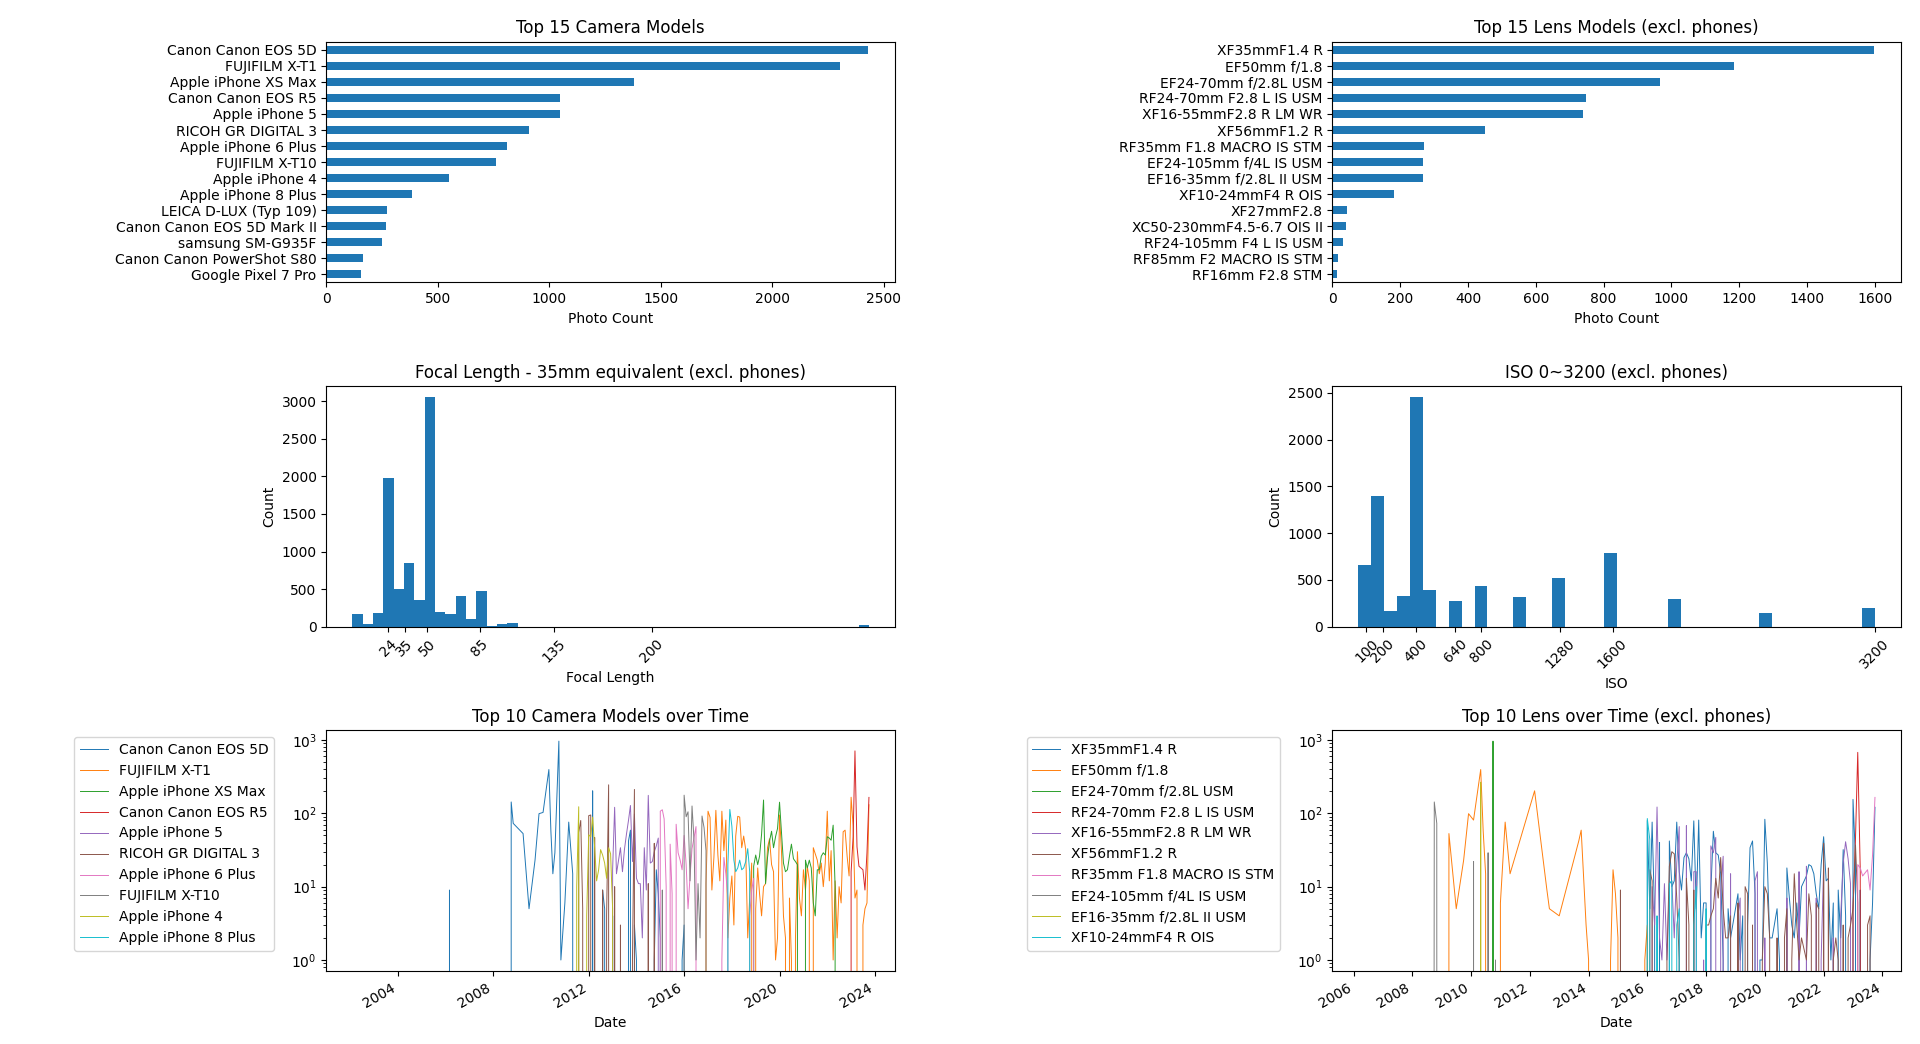
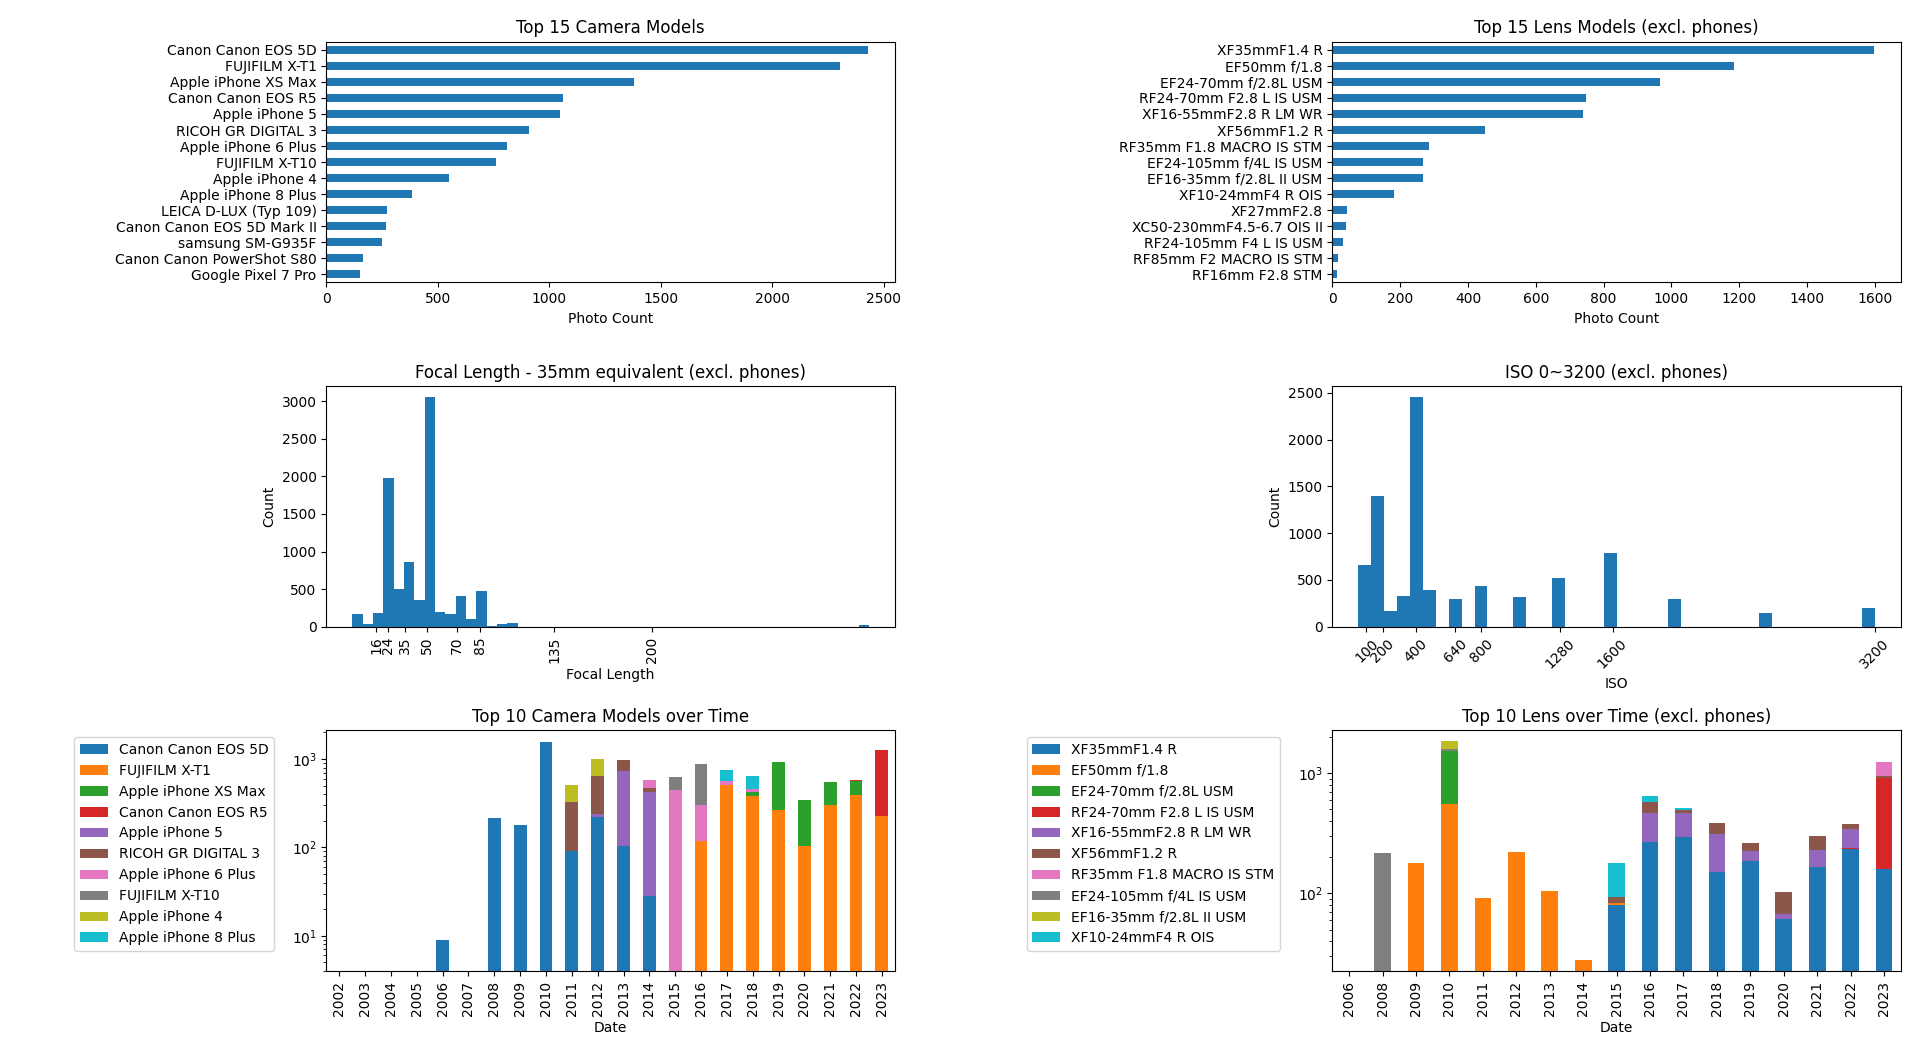
Use stacked bar to show the distribution of camera/lens usage over time

diff --git a/photo-histogram.py b/photo-histogram.py
@@ -146,9 +146,10 @@ def plot(df):
   # 5. Trend of counting over time by camera_model
   df.set_index('date_original', inplace=True)
   top_10_cameras = df['camera_with_maker'].value_counts().head(10).index
-  monthly_counts = df.groupby([pd.Grouper(freq='M'), 'camera_with_maker']).size().unstack(fill_value=0)
-  monthly_counts = monthly_counts[top_10_cameras]
-  monthly_counts.plot.line(ax=axs[2, 0], linewidth=0.7)
+  yearly_counts = df.groupby([pd.Grouper(freq='Y'), 'camera_with_maker']).size().unstack(fill_value=0)
+  yearly_counts = yearly_counts[top_10_cameras]
+  yearly_counts.plot.bar(ax=axs[2, 0], stacked=True)
+  axs[2, 0].set_xticklabels([x.year for x in yearly_counts.index])
   axs[2, 0].set_title('Top 10 Camera Models over Time')
   axs[2, 0].set_xlabel('Date')
   axs[2, 0].set_ylabel('')  # Save screen estate.
@@ -158,9 +159,10 @@ def plot(df):
   # 6. Trend of counting over time by lens_model (non-phone)
   non_phone_df.set_index('date_original', inplace=True)
   top_10_lens = non_phone_df['lens_model'].value_counts().head(10).index
-  monthly_counts = non_phone_df.groupby([pd.Grouper(freq='M'), 'lens_model']).size().unstack(fill_value=0)
-  monthly_counts = monthly_counts[top_10_lens]
-  monthly_counts.plot.line(ax=axs[2, 1], linewidth=0.7)
+  yearly_counts = non_phone_df.groupby([pd.Grouper(freq='Y'), 'lens_model']).size().unstack(fill_value=0)
+  yearly_counts = yearly_counts[top_10_lens]
+  yearly_counts.plot.bar(ax=axs[2, 1], stacked=True)
+  axs[2, 1].set_xticklabels([x.year for x in yearly_counts.index])
   axs[2, 1].set_title('Top 10 Lens over Time (excl. phones)')
   axs[2, 1].set_xlabel('Date')
   axs[2, 1].set_ylabel('')  # Save screen estate.
